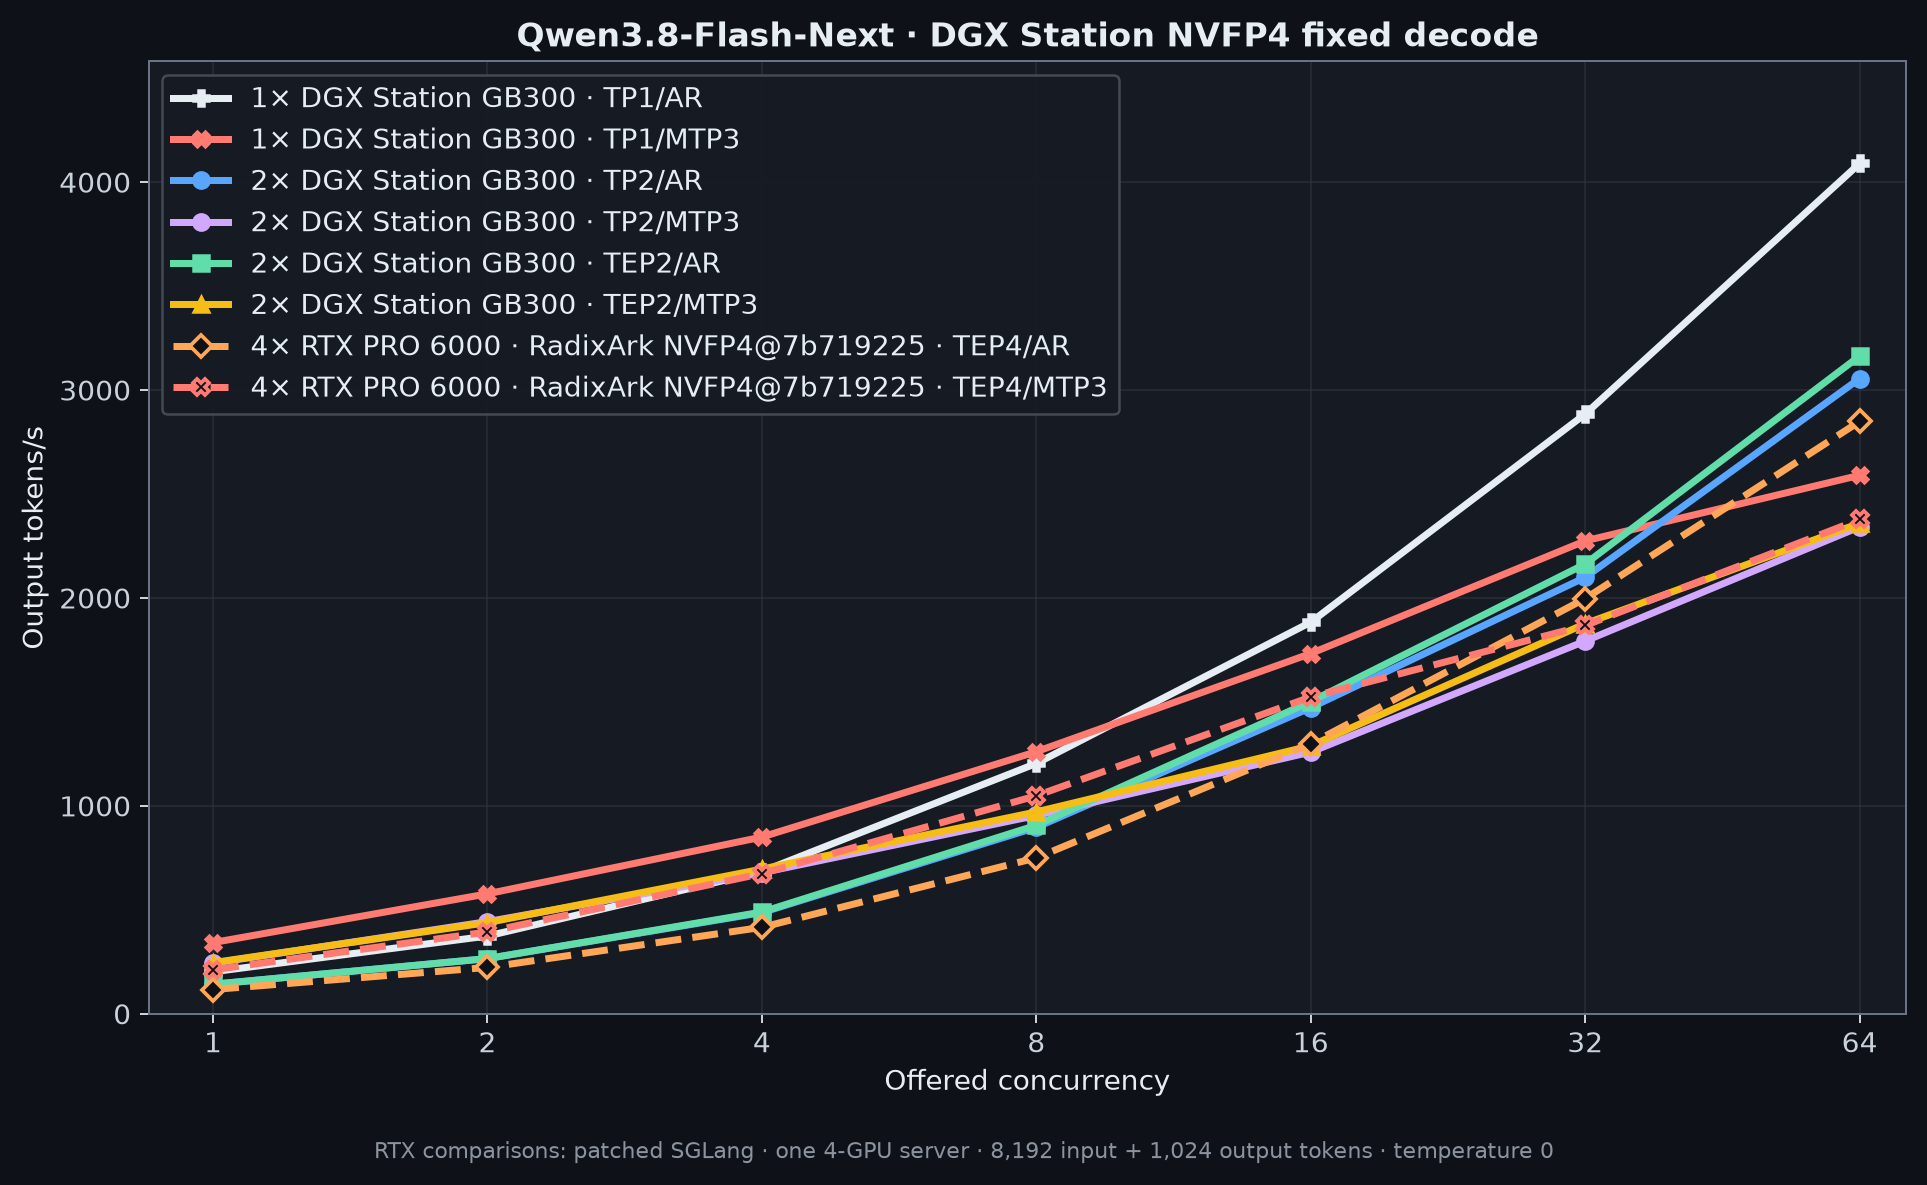
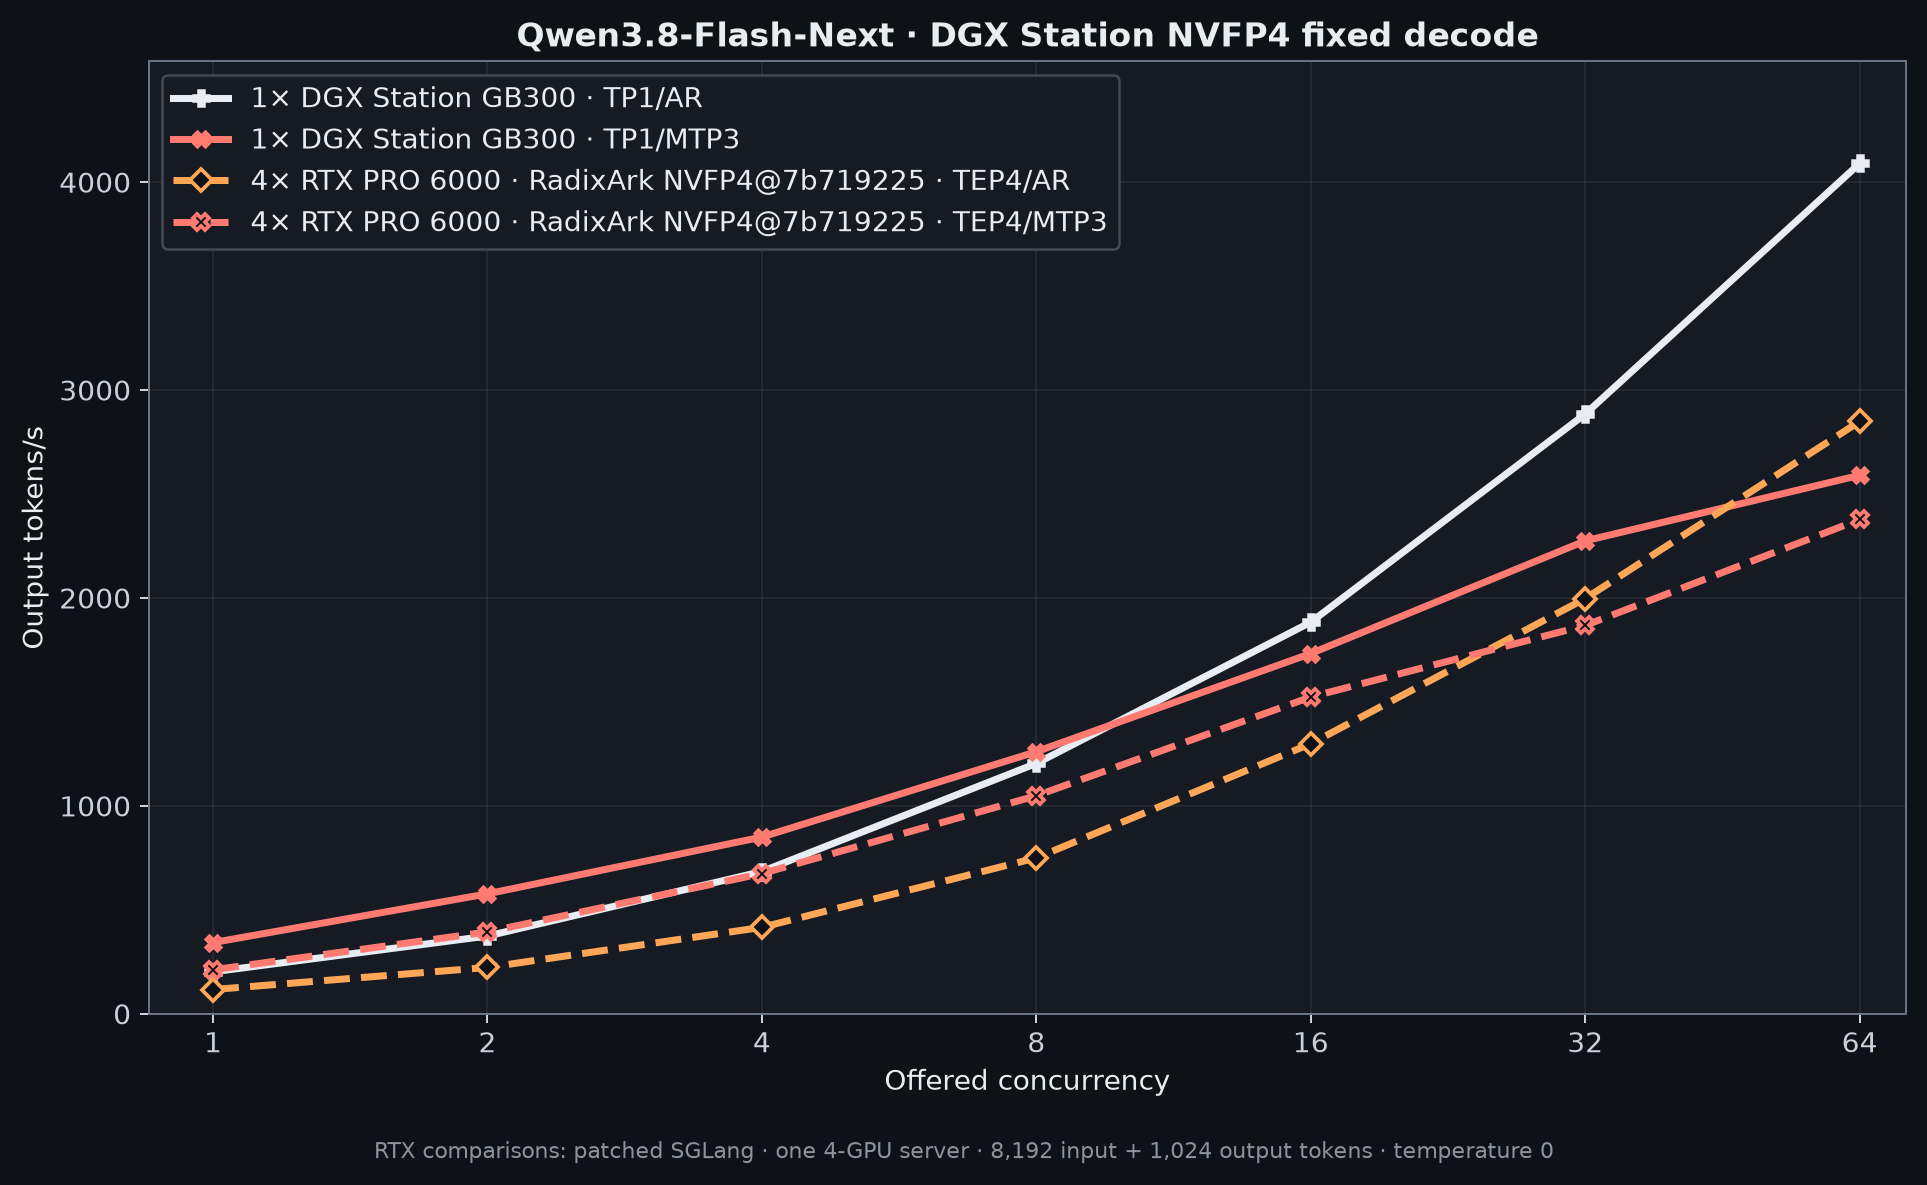
Keep Qwen two-station baselines out of headlines

diff --git a/qwen3.8-flash-next/tests/test_section_contract.py b/qwen3.8-flash-next/tests/test_section_contract.py
@@ -248,30 +248,20 @@ class SectionContractTests(unittest.TestCase):
             )
             self.assertEqual(
                 [row["throughput"] for row in renderer.headline_dgx_rows("decode")],
-                ["9", "2", "4", "5", "6", "7"],
+                ["9"],
             )
             self.assertEqual(
                 list(renderer.headline_dgx_series("decode")),
-                [
-                    "NVFP4 TP1/MTP0",
-                    "NVFP4 TP2/MTP0",
-                    "NVFP4 TP2/MTP3",
-                    "NVFP4 TEP2/MTP0",
-                    "NVFP4 TEP2/MTP3",
-                ],
+                ["NVFP4 TP1/MTP0"],
             )
 
-    def test_renderer_current_partial_data_omits_missing_future_series(self) -> None:
+    def test_renderer_headline_excludes_two_station_optimization_baselines(self) -> None:
         renderer = load_chart_renderer()
         self.assertEqual(
             tuple(renderer.DGX_HEADLINE_SERIES),
             (
                 "NVFP4 TP1/MTP0",
                 "NVFP4 TP1/MTP3",
-                "NVFP4 TP2/MTP0",
-                "NVFP4 TP2/MTP3",
-                "NVFP4 TEP2/MTP0",
-                "NVFP4 TEP2/MTP3",
             ),
         )
         visible_labels = [
@@ -420,7 +410,8 @@ class SectionContractTests(unittest.TestCase):
         }
         self.assertIn("local-inference-lab/Qwen3.8-Flash-Next-NVFP4-4p89", section)
         self.assertIn("TP1/AR and TP1/MTP3 each use one\nStation", section)
-        self.assertIn("TP2 and TEP2 span both Stations", section)
+        self.assertNotIn("TP2/", section)
+        self.assertNotIn("TEP2/", section)
         self.assertIn("comparison points, not DGX\nStation", section)
         self.assertIn(
             "RadixArk/Qwen3.8-Flash-Next-NVFP4@"
@@ -435,29 +426,34 @@ class SectionContractTests(unittest.TestCase):
         self.assertNotIn("sealed", headline.lower())
 
         dgx_rows = csv_rows("dgx-overlays.csv")
-        profile_labels = {
+        headline_profile_labels = {
             "NVFP4 TP1/MTP0": "1× DGX Station · TP1/AR",
             "NVFP4 TP1/MTP3": "1× DGX Station · TP1/MTP3",
+        }
+        baseline_profile_labels = {
             "NVFP4 TP2/MTP0": "2× DGX Stations · TP2/AR",
             "NVFP4 TP2/MTP3": "2× DGX Stations · TP2/MTP3",
             "NVFP4 TEP2/MTP0": "2× DGX Stations · TEP2/AR",
             "NVFP4 TEP2/MTP3": "2× DGX Stations · TEP2/MTP3",
         }
+        all_dgx_profiles = headline_profile_labels | baseline_profile_labels
         dgx_decode = {
             (row["profile"], int(row["concurrency"])): Decimal(row["throughput"])
             for row in dgx_rows
-            if row["profile"] in profile_labels and row["metric"] == "decode"
+            if row["profile"] in all_dgx_profiles and row["metric"] == "decode"
         }
         dgx_prefill = {
             (row["profile"], int(row["nominal_context_tokens"])): Decimal(
                 row["throughput"]
             )
             for row in dgx_rows
-            if row["profile"] in profile_labels and row["metric"] == "prefill"
+            if row["profile"] in all_dgx_profiles and row["metric"] == "prefill"
         }
         dgx_table = table_after_heading(section, "## DGX Station results")
-        self.assertEqual(len(dgx_table), len(profile_labels))
-        for cells, (profile, label) in zip(dgx_table, profile_labels.items()):
+        self.assertEqual(len(dgx_table), len(headline_profile_labels))
+        for cells, (profile, label) in zip(
+            dgx_table, headline_profile_labels.items()
+        ):
             self.assertEqual(cells[0], label)
             self.assertEqual(
                 [
@@ -471,6 +467,32 @@ class SectionContractTests(unittest.TestCase):
                     f"{dgx_prefill[(profile, 65536)]:,.0f}",
                 ],
             )
+
+        baseline_decode_table = table_after_heading(
+            recipe, "#### Two-Station decode throughput"
+        )
+        self.assertEqual(len(baseline_decode_table), len(DGX_CONCURRENCIES))
+        for cells in baseline_decode_table:
+            concurrency = int(cells[0])
+            self.assertEqual(len(cells), len(baseline_profile_labels) + 1)
+            for index, profile in enumerate(baseline_profile_labels, start=1):
+                self.assertEqual(
+                    unstyle_number(cells[index]),
+                    f"{dgx_decode[(profile, concurrency)]:,.1f}",
+                )
+
+        baseline_prefill_table = table_after_heading(
+            recipe, "#### Two-Station cold-prefill throughput"
+        )
+        self.assertEqual(len(baseline_prefill_table), len(CONTEXTS))
+        for cells in baseline_prefill_table:
+            context = int(cells[0][:-1]) * 1024
+            self.assertEqual(len(cells), len(baseline_profile_labels) + 1)
+            for index, profile in enumerate(baseline_profile_labels, start=1):
+                self.assertEqual(
+                    unstyle_number(cells[index]),
+                    f"{dgx_prefill[(profile, context)]:,.0f}",
+                )
 
         decode_table = table_after_heading(recipe, "### Workstation decode throughput")
         self.assertEqual(len(decode_table), len(CONCURRENCIES))
@@ -507,6 +529,7 @@ class SectionContractTests(unittest.TestCase):
             "1× TP1/MTP3: 342.7 tok/s C1; TP1/AR: 4,090.4 C64, 38,653 tok/s 64K prefill",
             overview_row,
         )
+        self.assertNotIn("2× DGX", overview_row)
         self.assertIn(
             "![Qwen3.8-Flash-Next fixed decode throughput]"
             "(qwen3.8-flash-next/charts/dgx-nvfp4-decode.png)",

diff --git a/qwen3.8-flash-next/charts/render-charts.py b/qwen3.8-flash-next/charts/render-charts.py
@@ -50,38 +50,10 @@ DGX_HEADLINE_SERIES = {
         "-",
         "X",
     ),
-    "NVFP4 TP2/MTP0": (
-        "2× DGX Station GB300 · TP2/AR",
-        "#58A6FF",
-        "-",
-        "o",
-    ),
-    "NVFP4 TP2/MTP3": (
-        "2× DGX Station GB300 · TP2/MTP3",
-        "#D2A8FF",
-        "-",
-        "o",
-    ),
-    "NVFP4 TEP2/MTP0": (
-        "2× DGX Station GB300 · TEP2/AR",
-        "#61DDAA",
-        "-",
-        "s",
-    ),
-    "NVFP4 TEP2/MTP3": (
-        "2× DGX Station GB300 · TEP2/MTP3",
-        "#F6BD16",
-        "-",
-        "^",
-    ),
 }
 DGX_HEADLINE_PLATFORMS = {
     "NVFP4 TP1/MTP0": "DGX Station",
     "NVFP4 TP1/MTP3": "DGX Station",
-    "NVFP4 TP2/MTP0": "DGX Station pair",
-    "NVFP4 TP2/MTP3": "DGX Station pair",
-    "NVFP4 TEP2/MTP0": "DGX Station pair",
-    "NVFP4 TEP2/MTP3": "DGX Station pair",
 }
 RTX_COMPARISON_SERIES = {
     "nvfp4_tep4_ar": (
@@ -167,7 +139,7 @@ def accepted_overlay_rows(metric: str) -> list[dict[str, str]]:
 
 
 def headline_dgx_rows(metric: str) -> list[dict[str, str]]:
-    """Select measured C1-C64 rows from the one- and two-Station lanes."""
+    """Select measured C1-C64 rows from the one-Station headline lanes."""
     selected: list[dict[str, str]] = []
     seen: set[tuple[str, int]] = set()
     axis_value = "concurrency" if metric == "decode" else "nominal_context_tokens"

diff --git a/qwen3.8-flash-next/recipes/README.md b/qwen3.8-flash-next/recipes/README.md
@@ -47,6 +47,45 @@ runtime limited resident requests to 47 because of Mamba-state capacity. Its
 C64 cell is the measured offered-load result: 2,590.4 tok/s at 45.1 effective
 concurrency and 0.911 queue fraction.
 
+### Initial two-Station optimization baselines
+
+The first TP2 and TEP2 layouts are retained here as measured optimization
+baselines, but excluded from the headline tables and charts. They are slower
+than TP1, so they are not representative two-Station results. The current
+layer placement shards communication-heavy parts of Qwen3.8-Flash-Next's
+hybrid architecture across the two hosts; a revised TEP2 layout will keep the
+poor-scaling layers local while distributing the routed experts.
+
+#### Two-Station decode throughput
+
+Output tok/s:
+
+| C | TP2/AR | TP2/MTP3 | TEP2/AR | TEP2/MTP3 |
+| ---: | ---: | ---: | ---: | ---: |
+| 1 | 142.4 | 243.5 | 142.3 | 246.4 |
+| 2 | 265.8 | 443.7 | 265.9 | 438.7 |
+| 4 | 486.9 | 678.7 | 489.7 | 696.3 |
+| 8 | 897.0 | 954.1 | 906.9 | 971.5 |
+| 16 | 1,473.0 | 1,258.9 | 1,502.3 | 1,289.2 |
+| 32 | 2,099.7 | 1,793.2 | 2,164.0 | 1,876.7 |
+| 64 | 3,055.9 | 2,342.4 | 3,164.1 | 2,360.1 |
+
+#### Two-Station cold-prefill throughput
+
+C1 client prompt tok/s:
+
+| Target | TP2/AR | TP2/MTP3 | TEP2/AR | TEP2/MTP3 |
+| ---: | ---: | ---: | ---: | ---: |
+| 8K | 20,455 | 19,756 | 21,043 | 20,104 |
+| 32K | 24,717 | 24,858 | 25,610 | 24,610 |
+| 64K | 24,437 | 24,363 | 25,210 | 24,170 |
+| 128K | 22,681 | 22,375 | 23,417 | 22,345 |
+
+The retained roots are `qwen38-4p89-tp2-mtp0-v11`,
+`qwen38-4p89-tp2-mtp3-v1`, `qwen38-4p89-tep2-mtp0-v1`, and
+`qwen38-4p89-tep2-mtp3-v1`. All four completed the C1–C64 decode matrix and
+the four cold-prefill cells with zero request errors.
+
 TEP2/AR run `qwen38-4p89-tep2-mtp0-v1` completed its measurements and exact
 container cleanup. Its first local postflight gate overlapped an `nvidia-smi`
 child from a pre-existing `watch -n1 nvidia-smi`; fresh canonical idle gates
@@ -374,6 +413,7 @@ benchmark harness:
 ```bash
 python3 data/import-dgx-results.py --require-all \
   /path/to/nvfp4-tp1-mtp0-result \
+  /path/to/nvfp4-tp1-mtp3-result \
   /path/to/nvfp4-tp2-mtp0-result \
   /path/to/nvfp4-tp2-mtp3-result \
   /path/to/nvfp4-tep2-mtp0-result \
@@ -386,7 +426,8 @@ With `--require-complete`, the importer accepts only roots whose launcher wrote
 `COMPLETE` after all C1–C64 and cold-prefill cells. Queueing or lower effective
 concurrency remains a measured property of a completed cell. TP1 represents one
 engine on one Station; TP2 and TEP2 each represent one distributed engine
-across both Stations. AR and MTP3 are plotted as separate curves.
+across both Stations. The current TP2 and TEP2 rows remain in machine-readable
+data and the optimization-baseline tables above, but are not plotted.
 
 Final timed status supersedes the corresponding smoke status in performance
 tables only after the completed timed root passes this import. Smoke status by

diff --git a/README.md b/README.md
@@ -19,7 +19,7 @@ performance tuning, runtime quirks, benchmarking practice, and safe recovery.
 
 | Experiment | Checkpoint / precision | Headline result |
 | --- | --- | --- |
-| [Qwen3.8-Flash-Next](qwen3.8-flash-next/) | local-inference-lab NVFP4-4p89/SGLang on 1× or 2× DGX Station GB300; 4× RTX PRO 6000 comparison | 1× TP1/MTP3: 342.7 tok/s C1; TP1/AR: 4,090.4 C64, 38,653 tok/s 64K prefill |
+| [Qwen3.8-Flash-Next](qwen3.8-flash-next/) | local-inference-lab NVFP4-4p89/SGLang on 1× DGX Station GB300; 4× RTX PRO 6000 comparison | 1× TP1/MTP3: 342.7 tok/s C1; TP1/AR: 4,090.4 C64, 38,653 tok/s 64K prefill |
 | [Qwen3.8-27B](qwen3.8-27b/) | BF16 plus unofficial Huginn FP8 and NVFP4A16 targets; BF16 KV/Mamba state | DFlash2: 265.8 tok/s C1; MTP: 6,348.8 C128. Quant AR C128: FP8 5,494.4 (+8.7% vs BF16), NVFP4A16 3,607.4 (−28.6%) |
 | [Qwen2.5-72B LoRA FSDP training](qwen72b-lora-fsdp/) | BF16 LoRA SFT; FSDP2 over 2× GB300; packed UltraChat 10K at 2,048 tokens | 4,453.19 tokens/s; 29.433 s/optimizer step; global batch 131,072 tokens |
 | [RF-DETR Large training](rfdetr-training/) | BF16 fine-tuning on the 1.17M-image MLPerf OpenImages subset; 2× GB300 DDP | Optimized global-batch-128 epoch: 220.45 images/s and 1:46:52 end to end (2.44× faster than control) |
@@ -41,8 +41,8 @@ performance tuning, runtime quirks, benchmarking practice, and safe recovery.
 
 ![Qwen3.8-Flash-Next cold-prefill throughput](qwen3.8-flash-next/charts/dgx-nvfp4-prefill.png)
 
-Solid curves show one serving engine on one or two DGX Stations. Dashed curves
-show two separate comparison runs on one 4× RTX PRO 6000 server: TEP4/AR and
+Solid curves show one serving engine on one DGX Station. Dashed curves show
+two separate comparison runs on one 4× RTX PRO 6000 server: TEP4/AR and
 TEP4/MTP3, using `RadixArk/Qwen3.8-Flash-Next-NVFP4@7b719225` and patched
 SGLang. No envelope is used.
 

diff --git a/qwen3.8-flash-next/charts/README.md b/qwen3.8-flash-next/charts/README.md
@@ -1,18 +1,18 @@
 # Qwen3.8-Flash-Next charts
 
-- `dgx-nvfp4-decode.png` shows one-Station TP1/AR and TP1/MTP3 plus
-  two-Station TP2/TEP2 NVFP4 decode through C64, with separate 4× RTX PRO
-  6000 RadixArk NVFP4 TEP4/AR and TEP4/MTP3 comparisons.
+- `dgx-nvfp4-decode.png` shows one-Station TP1/AR and TP1/MTP3 decode through
+  C64, with separate 4× RTX PRO 6000 RadixArk NVFP4 TEP4/AR and TEP4/MTP3
+  comparisons.
 - `dgx-nvfp4-prefill.png` shows the matching cold-prefill comparison.
 - `decode-throughput.png` shows the 4× RTX PRO 6000 reference decode matrix.
 - `cold-prefill-throughput.png` shows the workstation reference prefill matrix.
 - `tep4-{ar,mtp3}-{decode,prefill}-comparison.png` compares the workstation's
   official FP8/vLLM and Radix NVFP4/SGLang lanes.
 
-Each TP1 curve is one engine on one Station. Each TP2/TEP2 curve is one engine
-across both Stations. Each dashed workstation curve is one TEP4 server across
-four GPUs in the labeled decode mode. Detailed run and source notes are in
-[`../recipes/`](../recipes/).
+Each TP1 curve is one engine on one Station. Each dashed workstation curve is
+one TEP4 server across four GPUs in the labeled decode mode. The initial
+two-Station optimization baselines are retained in
+[`../recipes/`](../recipes/), not in the headline charts.
 
 Use CPython 3.12 (the committed charts were rendered with 3.12.3), create the
 pinned chart environment from the section root, then regenerate or verify the

diff --git a/qwen3.8-flash-next/README.md b/qwen3.8-flash-next/README.md
@@ -1,23 +1,19 @@
 # Qwen3.8-Flash-Next
 
-Qwen3.8-Flash-Next NVFP4 on one DGX Station GB300 and across two Stations. This
-is the Flash-Next MoE model, not Qwen3.8-27B.
+Qwen3.8-Flash-Next NVFP4 on one DGX Station GB300. This is the Flash-Next MoE
+model, not Qwen3.8-27B.
 
 ## DGX Station results
 
 The DGX headline uses
 [`local-inference-lab/Qwen3.8-Flash-Next-NVFP4-4p89`](https://huggingface.co/local-inference-lab/Qwen3.8-Flash-Next-NVFP4-4p89)
 on SGLang. Each row is one serving engine. TP1/AR and TP1/MTP3 each use one
-Station. TP2 and TEP2 span both Stations, with TEP2 adding expert parallelism.
+Station.
 
 | DGX configuration | C1 decode | C16 decode | C64 decode | 64K cold prefill |
 | --- | ---: | ---: | ---: | ---: |
 | 1× DGX Station · TP1/AR | 202.1 tok/s | **1,883.9 tok/s** | **4,090.4 tok/s** | **38,653 tok/s** |
 | 1× DGX Station · TP1/MTP3 | **342.7 tok/s** | 1,733.2 tok/s | 2,590.4 tok/s | 38,286 tok/s |
-| 2× DGX Stations · TP2/AR | 142.4 tok/s | 1,473.0 tok/s | 3,055.9 tok/s | 24,437 tok/s |
-| 2× DGX Stations · TP2/MTP3 | 243.5 tok/s | 1,258.9 tok/s | 2,342.4 tok/s | 24,363 tok/s |
-| 2× DGX Stations · TEP2/AR | 142.3 tok/s | 1,502.3 tok/s | 3,164.1 tok/s | 25,210 tok/s |
-| 2× DGX Stations · TEP2/MTP3 | **246.4 tok/s** | 1,289.2 tok/s | 2,360.1 tok/s | 24,170 tok/s |
 
 ![DGX Station and 4× RTX PRO 6000 NVFP4 decode throughput](charts/dgx-nvfp4-decode.png)
 
